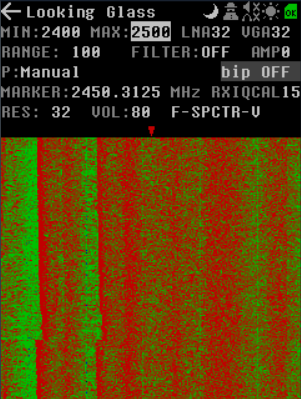
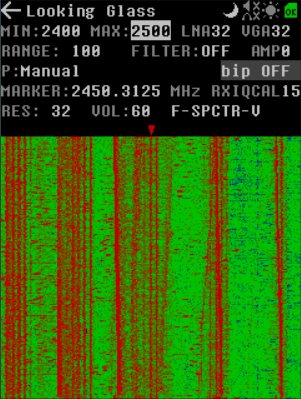
Some graphic changes.
The photos for the Bluetooth Jam spectrum have been updated, and additional photos for the BLE Jam spectrum have been added.

diff --git a/README.md b/README.md
@@ -128,6 +128,9 @@ Follow these steps to flash the firmware:
 ### Wi-Fi Jam Spectrum
 ![Wi-Fi Jam Spectrum](img/wifi_jam_spctr.jpg)
 
+### BLE Jam Spectrum
+![BLE Jam Spectrum](img/ble_jam_spctr.jpg)
+
 -----
 
 ## 🌟 Example of Work